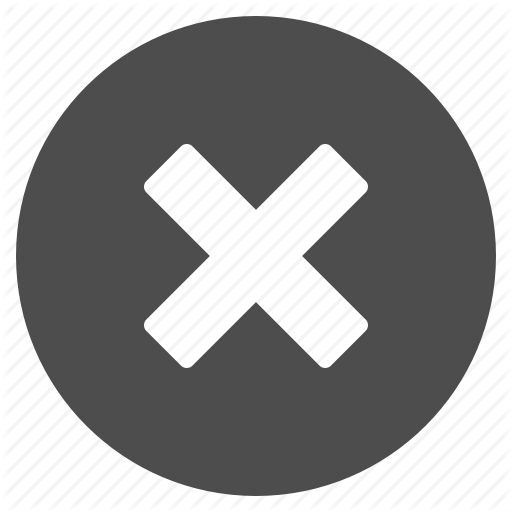
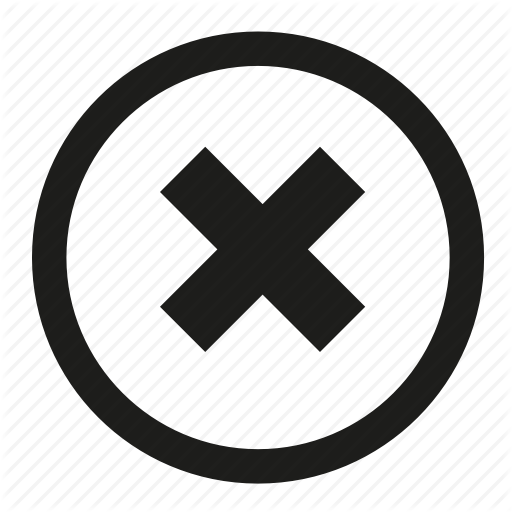
new close button img

diff --git a/HW1/index.js b/HW1/index.js
@@ -21,15 +21,22 @@ function handleEnter (e) {
     return true;
 }
 
+
 function handleMouseDownTasks (li) {
     if(li.className != 'remove-task'){
         li.className = 'remove-task';
         refreshTodo(-1);
-        var btn = document.createElement("button");
+        /*var btn = document.createElement("button");
         btn.className = 'remove-btn';
         btn.addEventListener("mousedown", function(){removeTasks(li)}, false);
         btn.appendChild(document.createTextNode("X"));
-        li.appendChild(btn);
+        li.appendChild(btn);*/
+        var inp = document.createElement("input");
+        inp.type = "image";
+        inp.src = "thexx.png";
+        inp.id = "myImage";
+        inp.addEventListener("mousedown", function(){removeTasks(li)}, false);
+        li.appendChild(inp);
     }
 }
 

diff --git a/HW1/index.css b/HW1/index.css
@@ -3,6 +3,12 @@ body {
     background-image: url("bg-11-full.jpg");
 }
 
+#myImage {
+    height: 20px;
+    width: 20px;
+    float: right;
+}
+
 #remainTasks {
     padding-left: 15px;
     font-size: 90px;
